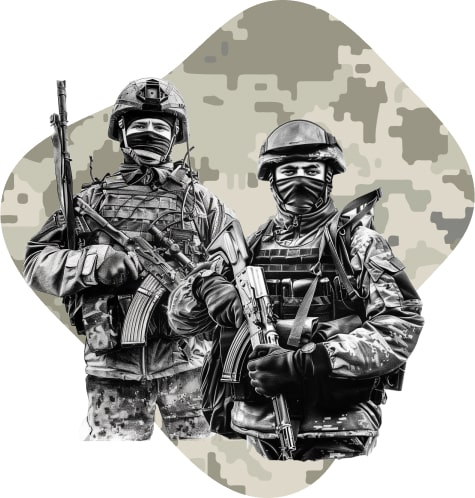
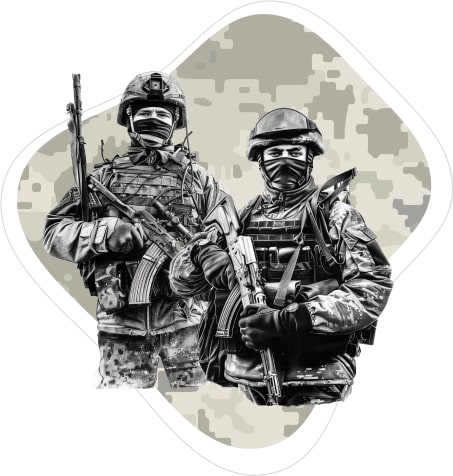
refactor: change pictures and style for info class

diff --git a/src/components/About/About.module.scss b/src/components/About/About.module.scss
@@ -46,7 +46,7 @@
             font-size: 16px;
             color: var(--secondary-dark-color);
             max-width: 488px;
-            margin-bottom: 58px;
+            margin-bottom: 130px;
         }
     }
 
